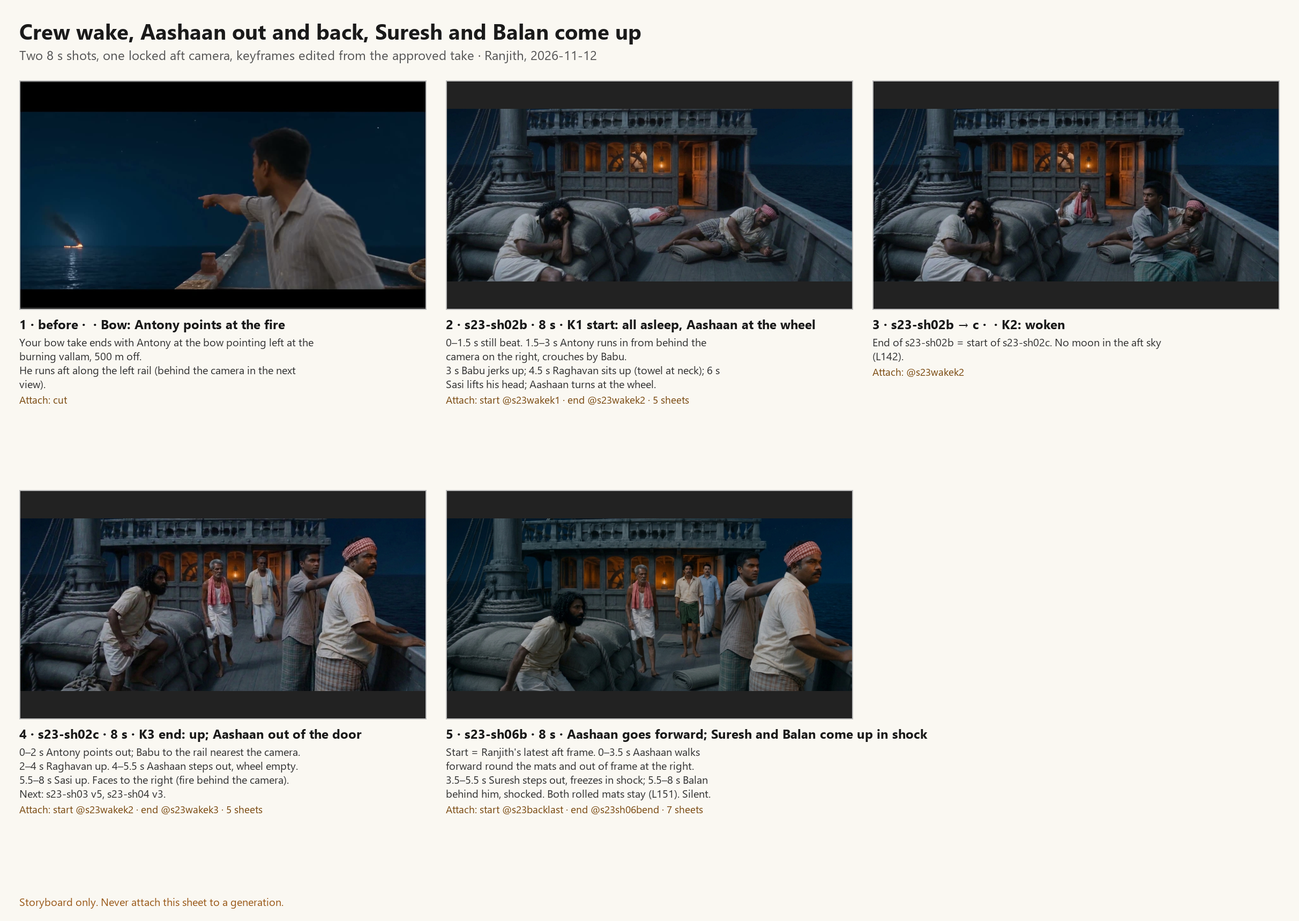
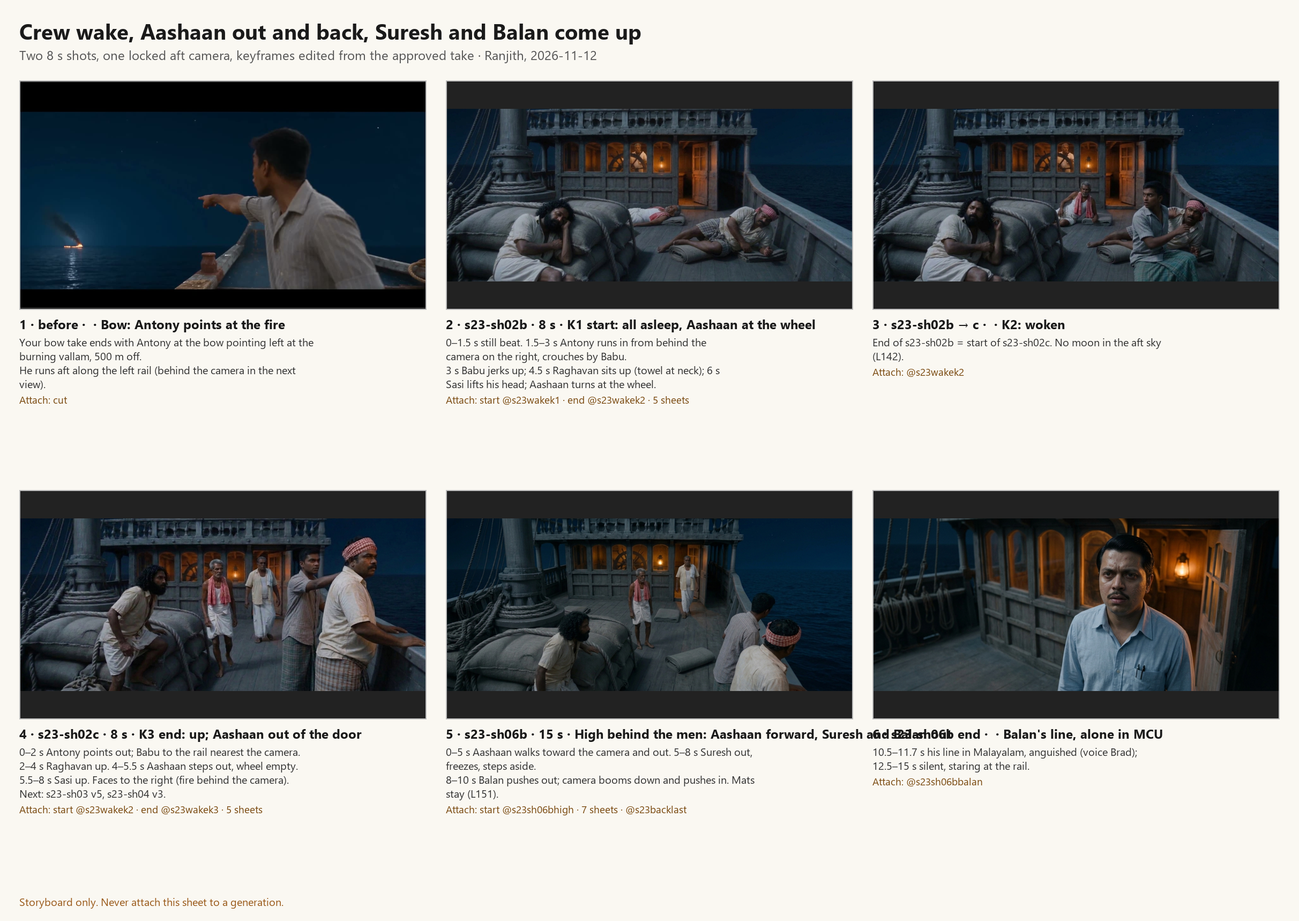
Ranjith: shot: s23-sh06b v9 (15 s, high from behind; Balan: എന്താ അവിടെ?)

Changed region(s): [[0.3403, 0.5244, 0.9901, 0.8946]]

diff --git a/scenes/showreel/s23-sh06b.md b/scenes/showreel/s23-sh06b.md
@@ -1,76 +1,75 @@
-# Shot s23-sh06b · SB031 Aashaan goes forward; Suresh and Balan come up in shock (8 s, silent) — v8
-Status: **ready, proposal** (v8, Ranjith 2026-11-12: continues from his latest aft take; v7 kept in `retired/s23-sh06b-v7.md`). QA 88.
-Storyboard: SB031 · source scene 23D · emotion "Resolve" (no tag, W6) · storyboard `storyboards/s23-wake-storyboard.png`
+# Shot s23-sh06b · SB031 Suresh and Balan come up; Balan: "എന്താ അവിടെ?" (15 s, one line) — v9
+Status: **ready, proposal** (v9, Ranjith 2026-11-12; v8 kept in `retired/s23-sh06b-v8.md`). QA 87.
+Storyboard: SB031 · source scene 23D · emotion "Resolve" (no tag, W6; delivery from the intent line, W13) · storyboard `storyboards/s23-wake-storyboard.png`
 Created by: Ranjith, 2026-11-10
-Camera position: the locked aft view of the latest take (main deck forward of the sacks, looking aft)
-References: start image = @s23backlast · reference (end) = @s23sh06bend · @antony20 · @babu · @raghavan · @sasi · @aashaan · @suresh · @balan (all full)
-Props in frame (L151): mast with rope coils, lashed sacks, TWO rolled sleeping mats (middle of the deck; lower middle), the open door, the lantern; all stay.
-Reference sweep (left out, and why): @urudeckc1platefullmoon: its mast stands elsewhere. @burningvallamnomoon: behind the camera.
-Follows: Ranjith's latest aft take (Aashaan walking forward from the door). Next: s23-sh06c (Suresh and Balan reach the rail), then s23-sh07 (Balan: don't go).
-Note: Aashaan is on deck from here; SB032 (s24-sh01) has him at the wheel, so a later shot has to send him back in.
+Camera (cinematographer, 2026-11-12: **Use this camera move**, Ranjith): high (about 3 m) from behind Antony and Babu at the rail, looking down the deck at the door; 8–10 s boom down and push in to Balan; MCU for his line ([camera-exp]: the move ends before the line).
+Voice: Balan = **Brad** (`voices/VOICES.md`).
+References: start image = @s23sh06bhigh · reference (10–15 s) = @s23sh06bbalan · @s23backlast (props) · @antony20 · @babu · @raghavan · @sasi · @aashaan · @suresh · @balan
+Props in frame (L151): mast with rope coils, lashed sacks, TWO rolled mats, the open door, the lantern; all stay (a hatch grate the image model added was removed).
+Follows: Ranjith's latest aft take (@s23backlast). Next: s23-sh06c, then s23-sh07 (Balan: don't go).
+Note: Aashaan is on deck from here; SB032 (s24-sh01) has him at the wheel.
 
 ## Prompt
 ```
 SCENE
-Full-moon night, 1998, the open sea off Kerala, on the main deck of our wooden cargo uru, looking aft at the carved deckhouse. One continuous shot, 8 seconds, carrying straight on from the start image. Aashaan walks forward from the deckhouse door, past the men at the right-hand rail, toward the bow. Behind him, startled awake by the running and the commotion on deck, Suresh and then Balan come up from below and step out of the door, and freeze in shock. Nobody speaks.
+Full-moon night, 1998, the open sea off Kerala, on the main deck of our wooden cargo uru. One continuous shot, 15 seconds, high from behind the men at the rail, looking down the deck at the carved deckhouse. Aashaan walks forward past the camera. Startled awake by the commotion, Suresh and then Balan come up from below and out of the deckhouse door, frozen in shock; the camera comes down to Balan, who calls out in Malayalam in anguish.
 
 MEMORY (the same night in every shot; nothing changes unless this block says so)
-Place: our uru, exactly as in the start image: the carved two-deck deckhouse aft with its balustraded roof rail, five arched windows glowing with one hanging lantern, the spoked wheel behind the windows (empty), the door on the right, open; ONE thick mast with rope coils at its foot at the LEFT; ONE stack of lashed burlap sacks in the left foreground; TWO rolled grey sleeping mats on the planks: one in the middle of the deck in front of the deckhouse, one in the lower middle of the frame near the camera; the right-hand rail (the boat's left side) running down the right of the frame with the sea beyond.
-Light: the full moon is behind the camera, never in the sky of this view: deep navy sky with faint stars; its silver-blue light falls on the deckhouse front, the planks and the men. Blue and readable, never black; warm light only from the lantern in the windows and the doorway.
-People: Antony: grey-beige short-sleeve shirt with thin vertical stripes, green-grey checked mundu, barefoot. Babu: heavy-set, moustache, red-and-white checked towel tied round his head, off-white shirt, checked lungi. Raghavan: about 60, thin, grey hair uncovered, white vest, white mundu, red-and-white checked towel round his NECK and down his chest. Sasi: long black curly hair, full beard, off-white shirt, white mundu. Aashaan: grey hair, grey moustache, cream shirt over a white vest, white towel on his LEFT shoulder, white mundu. Suresh: curly hair, moustache, cream shirt with sleeves rolled, green small-check mundu, a red thread on his RIGHT wrist. Balan: oiled black hair combed back, thin moustache, light-blue full-sleeve shirt with two pens in the left pocket, white mundu, black shoes. One of each, never a copy or a stranger; only Suresh wears a red thread.
-Fire: one fishing vallam burning 500 m away, ahead-left of the uru, behind the camera to the right; not in this view.
-NOW: Babu at the rail at the right edge and Antony beside him with his arm out, both staring out; Sasi crouched by the sacks; Raghavan standing in the middle of the deck; Aashaan just in front of the open door, the wheel empty; Suresh and Balan asleep below, about to come up.
+Place: our uru exactly as in the keyframes: the carved two-deck deckhouse aft, five arched windows glowing with one hanging lantern, the empty spoked wheel inside, the door open on the right; ONE thick mast with rope coils at its foot at the left; ONE stack of lashed burlap sacks at the left; TWO rolled grey sleeping mats on the planks, one in front of the deckhouse and one nearer the rail; the right-hand rail with the sea beyond.
+Light: the full moon is behind the camera, never in the sky: deep navy sky with faint stars; silver-blue moonlight on the deck and faces. Blue and readable, never black; warm light only from the lantern and the doorway.
+People: Antony: grey-beige short-sleeve shirt with thin vertical stripes, green-grey checked mundu. Babu: heavy-set, red-and-white checked towel tied round his head, checked lungi. Raghavan: thin, grey hair uncovered, white vest, white mundu, checked towel round his NECK. Sasi: long black curly hair, full beard, off-white shirt. Aashaan: grey hair, grey moustache, cream shirt over a white vest, white towel on his LEFT shoulder. Suresh: curly hair, moustache, cream shirt with sleeves rolled, green small-check mundu, red thread on his RIGHT wrist. Balan: about 35, black hair oiled and combed back with a side parting, thin moustache, light-blue full-sleeve shirt with two pens in the left pocket, white mundu, black shoes; real unretouched skin, pores, his acne marks, sweat sheen, matte. One of each; only Suresh has a red thread.
+Fire: one vallam burning 500 m away, ahead-left of the uru; not in this view.
+NOW: Antony and Babu at the rail in the foreground, backs to us; Sasi crouched by the sacks; Raghavan standing mid-deck; Aashaan just in front of the open door; Suresh and Balan below, about to come up.
 
 ACTIVE REFERENCES
-@s23backlast (start image, 0.0s): the exact first frame: the deck, mast, sacks, both rolled mats, the deckhouse and the five men exactly as in this image. 100% matches the reference.
-@s23sh06bend (reference, 8.0s): how the shot ends: Aashaan has gone forward past the camera, out of this view; Suresh just outside the door and Balan behind him, both frozen in shock; everyone else and every prop as at the start. The keyframes are for the place, the positions and the poses; every face and costume comes from the character sheets.
+@s23sh06bhigh (start image, 0.0s): the exact first frame, from high behind Antony and Babu: the deck, mast, sacks, both mats and the men exactly as here. 100% matches the reference.
+@s23sh06bbalan (reference, 10.0s–15.0s): how the shot ends: Balan alone in MCU just outside the door, face up toward the rail. Keyframes give place, framing and poses; faces and costumes come from the sheets.
+@s23backlast (reference): the same deck seen at eye height, for every prop's place.
 @antony20, @babu, @raghavan, @sasi, @aashaan, @suresh, @balan (full): each exactly as in MEMORY. 100% matches the reference.
 
-FORMAT MODE
-One continuous shot; the camera does not cut on its own. The video runs the full 8 seconds.
-
-OPTICS
-WS, about 55°, exactly the framing of the start image; natural depth of field: every man, the mats and the deckhouse readable.
-
 CAMERA
-Locked off at standing eye height, exactly as in the start image; the camera rides with the boat, so the deck stays steady in the frame.
+0.0s–8.0s: high, about three metres up, behind Antony and Babu, steady, riding with the boat. 8.0s–10.0s: a slow boom down and push-in toward the door, past the mats, Antony and Babu leaving the frame. 10.0s–15.0s: settled at just above Balan's eye height in MCU, still.
 
 ACTION
 Each man moves at his own moment, never together.
-0.0s to 3.5s: Aashaan walks forward from the door across the deck, around the rolled mats, grave, along the right side behind Antony and Babu, and passes out of the frame at the right edge toward the bow. Babu and Antony stay at the rail, staring out; Raghavan and Sasi stay where they are, watching.
-3.5s to 5.5s: Behind him, Suresh climbs up from below and steps out of the door, half awake, then sees the men and freezes, eyes wide.
-5.5s to 8.0s: Balan comes up right behind Suresh and stops in the doorway, shocked, eyes wide, looking past Suresh toward the rail. Hold on the view of @s23sh06bend.
+0.0s–5.0s: Aashaan walks forward from the door toward the camera, around the mats, and passes out of the frame below right; Antony and Babu stay at the rail; Raghavan and Sasi stay where they are.
+5.0s–8.0s: Suresh climbs up and steps out of the door, half awake, sees the men and freezes, eyes wide; he steps aside to the left of the door.
+8.0s–10.0s: Balan pushes out of the doorway past him, shocked, and stops just outside, looking up toward the rail.
+10.0s–12.5s: Balan alone in the frame, head steady, face toward the camera, eyes just right of the lens, speaks his line.
+12.5s–15.0s: silence, mouth closed, he stares toward the rail, breathing hard.
 
-EXPRESSIONS
-Antony, Babu: tense, staring out. Raghavan, Sasi: fear. Aashaan: grave, eyes narrowed, as he passes. Suresh: shock, eyes wide, mouth closed. Balan: shock, eyes wide, mouth closed. Every mouth stays closed.
-
-PHYSICS
-The deck rises and falls gently; the lantern sways and the window glow moves; the door swings; mundus stir in the breeze. The rolled mats lie still.
-
-LIGHTING
-As in MEMORY: moonlight from behind the camera on the deckhouse front and the men; warm lantern glow from the windows and the doorway falling on Suresh and Balan as they step out. No moon and no glow in the sky.
+DIALOGUE RULES
+Dialogue rules: whenever a character speaks, frame them in a medium close-up with their face filling at least a third of the frame height. The speaking face is turned toward the camera, no more than 30 degrees from the lens, upright and not lying sideways. Only one person speaks in the shot; everyone else keeps their mouth closed. The speaker's head stays steady during the line; head turns and gestures happen only in pauses between lines. The mouth is always fully visible, with nothing in front of the face, and the face is lit with soft, even frontal light. Natural, clearly articulated mouth movements matching the dialogue.
+While a line is spoken, the speaker is the only person in the frame.
 
 AUDIO
-Sound effects only — natural on-location sound, the soundtrack carries no music. No music at all: no score, no background music, no song, no humming, and no cinematic sound design: no riser, no whoosh, no swell, no rumble, no transition sound. Ambient at a steady level that does not build. No spoken words and no voices; every mouth stays closed.
-0.0s–3.5s Aashaan's footsteps on the planks; 3.5s–8.0s feet on a wooden ladder below, the door knocking, quick startled breaths, the sea.
+Sound effects only — natural on-location sound, no music: no score, no song, no humming, no riser, whoosh or swell. Ambient at a steady level.
+Spoken language: Malayalam only, not English and not a translation. Balan says the exact Malayalam words in quotes below, in everyday Kollam coastal pronunciation, once, and nothing else. Lip-sync exact; Balan alone in frame. No other voice in the video.
+10.5s to 11.7s: Balan, Kollam coastal accent, anguished and breathless, voice cracking, a short pull on "എന്താ", stress on "അവിടെ", pitch rising and breaking at the end. About 1.2 seconds.
+"എന്താ അവിടെ?"
+Sound effects: 0.0s–5.0s Aashaan's footsteps; 5.0s–10.0s feet on a wooden ladder below, the door knocking, startled breaths; 12.5s–15.0s Balan's hard breathing, the sea.
 
 STYLE
-Photoreal 1998 Kerala period feature film. Shot on a Sony Venice 2 full-frame digital cinema camera: very wide dynamic range that holds the lantern-lit deckhouse and the moonlit deck in one frame; clean, low-noise shadows; soft, gradual highlight roll-off; accurate, natural colour with rich, true skin tones; gentle filmic contrast; fine, organic texture; no over-sharpening, no glossy or video look. Deep blue full-moon night with warm lanterns.
+Photoreal 1998 Kerala period feature film. Shot on a Sony Venice 2 full-frame digital cinema camera: very wide dynamic range; clean, low-noise shadows; soft, gradual highlight roll-off; accurate, natural colour with rich, true skin tones; gentle filmic contrast; fine, organic texture; no over-sharpening, no glossy or video look. Deep blue full-moon night with warm lanterns.
 
 POSITIVE LOCKS
-Same camera and framing as the start image. Every prop stays exactly where it lies in the start image: the mast, the sacks, BOTH rolled mats; nothing is added, removed or moved. Seven men, one of each; Aashaan leaves the frame at the right by 3.5s, so six at the end. Suresh first, then Balan, out of the one door after Aashaan has gone forward. Raghavan's towel round his neck; Babu's on his head; only Suresh has a red thread. No moon in the sky. Nobody speaks. Runs the full 8 seconds.
+One continuous shot. Every prop stays where it lies: mast, sacks, BOTH rolled mats; nothing added or removed. One of each man. Only Balan speaks, one line, in Malayalam, alone in frame; every other mouth closed. No moon in the sky. Runs the full 15 seconds.
+
+When @balan says "എന്താ അവിടെ?" let it be anguished and breathless, a man just woken into a nightmare, afraid of the answer
 ```
 
 ## Settings
-- Duration **8 s** (L71) · 21:9 · no dialogue · remove every other attachment first (L88). Attach folder: `attach/s23-sh06b/`.
-- Start image `@s23backlast` · reference `@s23sh06bend` · `@antony20` · `@babu` · `@raghavan` · `@sasi` · `@aashaan` · `@suresh` · `@balan` (9).
-- QA 88. Risks: the rolled mats moving (L151); Aashaan stopping in frame instead of passing out at the right; only Suresh with a red thread.
+- Duration **15 s** · 21:9 · dialogue Malayalam · voice Balan = **Brad** · no emotion tag (W6), intent line (W13). Line 10.5–11.7 s, silent tail 3.3 s (L70).
+- Start image `@s23sh06bhigh` · reference `@s23sh06bbalan` · `@s23backlast` · `@antony20` · `@babu` · `@raghavan` · `@sasi` · `@aashaan` · `@suresh` · `@balan` (10; if the platform takes 9, drop `@s23backlast`).
+- QA 87. Risks: the camera move and the line in one take; Suresh staying in frame during the line (L34); the mats moving (L151).
 
 ## Generation results
 
 
 
+
 ## History
+- v9 (2026-11-12): Ranjith: Balan comes out saying "എന്താ അവിടെ?" in agony; camera a bit from behind and high; 15 s. Camera move asked and chosen (cinematographer step). Keyframes: high start view behind Antony and Babu (hatch grate removed, L151) and Balan's MCU at the door. Line in MCU alone (lip-sync rule), so Suresh steps aside first.
 - v8 (2026-11-12): Ranjith: from his latest aft frame (Aashaan already walking forward): Suresh and Balan come out behind Aashaan once he has gone forward, both in shock at the noise; the rolled mats stay (L151). End keyframe edited from his frame; Aashaan leaves the frame at the right (forward in this aft view), so the end frame is logical without him (an attempt to keep him in frame came out oversized and dropped Balan).
 - v7 (2026-11-12): Ranjith: after his takes left Aashaan out on deck, this shot sends him back to the wheel while Suresh and Balan come up; same locked aft camera; end keyframe @s23sh06bend (two retries: framing drift, and Antony vanishing when the men were spaced out; the kept one has Antony partly behind Babu).
 - v6 (2026-11-12): Ranjith: full-moon redo (SB027–SB032) in the look of his reference video: moon placed by the night sheet (ahead-right of the bow, L142), blue readable light, the bow is @urubowplate (L143), plates swapped to the full-moon IDs. Action, positions, lines and timing unchanged (L114). A start image means the last frame of the NEW full-moon take of the shot before.

diff --git a/scenes/showreel/retired/s23-sh06b-v8.md b/scenes/showreel/retired/s23-sh06b-v8.md
@@ -1,0 +1,91 @@
+# Shot s23-sh06b · SB031 Aashaan goes forward; Suresh and Balan come up in shock (8 s, silent) — v8
+Status: **ready, proposal** (v8, Ranjith 2026-11-12: continues from his latest aft take; v7 kept in `retired/s23-sh06b-v7.md`). QA 88.
+Storyboard: SB031 · source scene 23D · emotion "Resolve" (no tag, W6) · storyboard `storyboards/s23-wake-storyboard.png`
+Created by: Ranjith, 2026-11-10
+Camera position: the locked aft view of the latest take (main deck forward of the sacks, looking aft)
+References: start image = @s23backlast · reference (end) = @s23sh06bend · @antony20 · @babu · @raghavan · @sasi · @aashaan · @suresh · @balan (all full)
+Props in frame (L151): mast with rope coils, lashed sacks, TWO rolled sleeping mats (middle of the deck; lower middle), the open door, the lantern; all stay.
+Reference sweep (left out, and why): @urudeckc1platefullmoon: its mast stands elsewhere. @burningvallamnomoon: behind the camera.
+Follows: Ranjith's latest aft take (Aashaan walking forward from the door). Next: s23-sh06c (Suresh and Balan reach the rail), then s23-sh07 (Balan: don't go).
+Note: Aashaan is on deck from here; SB032 (s24-sh01) has him at the wheel, so a later shot has to send him back in.
+
+## Prompt
+```
+SCENE
+Full-moon night, 1998, the open sea off Kerala, on the main deck of our wooden cargo uru, looking aft at the carved deckhouse. One continuous shot, 8 seconds, carrying straight on from the start image. Aashaan walks forward from the deckhouse door, past the men at the right-hand rail, toward the bow. Behind him, startled awake by the running and the commotion on deck, Suresh and then Balan come up from below and step out of the door, and freeze in shock. Nobody speaks.
+
+MEMORY (the same night in every shot; nothing changes unless this block says so)
+Place: our uru, exactly as in the start image: the carved two-deck deckhouse aft with its balustraded roof rail, five arched windows glowing with one hanging lantern, the spoked wheel behind the windows (empty), the door on the right, open; ONE thick mast with rope coils at its foot at the LEFT; ONE stack of lashed burlap sacks in the left foreground; TWO rolled grey sleeping mats on the planks: one in the middle of the deck in front of the deckhouse, one in the lower middle of the frame near the camera; the right-hand rail (the boat's left side) running down the right of the frame with the sea beyond.
+Light: the full moon is behind the camera, never in the sky of this view: deep navy sky with faint stars; its silver-blue light falls on the deckhouse front, the planks and the men. Blue and readable, never black; warm light only from the lantern in the windows and the doorway.
+People: Antony: grey-beige short-sleeve shirt with thin vertical stripes, green-grey checked mundu, barefoot. Babu: heavy-set, moustache, red-and-white checked towel tied round his head, off-white shirt, checked lungi. Raghavan: about 60, thin, grey hair uncovered, white vest, white mundu, red-and-white checked towel round his NECK and down his chest. Sasi: long black curly hair, full beard, off-white shirt, white mundu. Aashaan: grey hair, grey moustache, cream shirt over a white vest, white towel on his LEFT shoulder, white mundu. Suresh: curly hair, moustache, cream shirt with sleeves rolled, green small-check mundu, a red thread on his RIGHT wrist. Balan: oiled black hair combed back, thin moustache, light-blue full-sleeve shirt with two pens in the left pocket, white mundu, black shoes. One of each, never a copy or a stranger; only Suresh wears a red thread.
+Fire: one fishing vallam burning 500 m away, ahead-left of the uru, behind the camera to the right; not in this view.
+NOW: Babu at the rail at the right edge and Antony beside him with his arm out, both staring out; Sasi crouched by the sacks; Raghavan standing in the middle of the deck; Aashaan just in front of the open door, the wheel empty; Suresh and Balan asleep below, about to come up.
+
+ACTIVE REFERENCES
+@s23backlast (start image, 0.0s): the exact first frame: the deck, mast, sacks, both rolled mats, the deckhouse and the five men exactly as in this image. 100% matches the reference.
+@s23sh06bend (reference, 8.0s): how the shot ends: Aashaan has gone forward past the camera, out of this view; Suresh just outside the door and Balan behind him, both frozen in shock; everyone else and every prop as at the start. The keyframes are for the place, the positions and the poses; every face and costume comes from the character sheets.
+@antony20, @babu, @raghavan, @sasi, @aashaan, @suresh, @balan (full): each exactly as in MEMORY. 100% matches the reference.
+
+FORMAT MODE
+One continuous shot; the camera does not cut on its own. The video runs the full 8 seconds.
+
+OPTICS
+WS, about 55°, exactly the framing of the start image; natural depth of field: every man, the mats and the deckhouse readable.
+
+CAMERA
+Locked off at standing eye height, exactly as in the start image; the camera rides with the boat, so the deck stays steady in the frame.
+
+ACTION
+Each man moves at his own moment, never together.
+0.0s to 3.5s: Aashaan walks forward from the door across the deck, around the rolled mats, grave, along the right side behind Antony and Babu, and passes out of the frame at the right edge toward the bow. Babu and Antony stay at the rail, staring out; Raghavan and Sasi stay where they are, watching.
+3.5s to 5.5s: Behind him, Suresh climbs up from below and steps out of the door, half awake, then sees the men and freezes, eyes wide.
+5.5s to 8.0s: Balan comes up right behind Suresh and stops in the doorway, shocked, eyes wide, looking past Suresh toward the rail. Hold on the view of @s23sh06bend.
+
+EXPRESSIONS
+Antony, Babu: tense, staring out. Raghavan, Sasi: fear. Aashaan: grave, eyes narrowed, as he passes. Suresh: shock, eyes wide, mouth closed. Balan: shock, eyes wide, mouth closed. Every mouth stays closed.
+
+PHYSICS
+The deck rises and falls gently; the lantern sways and the window glow moves; the door swings; mundus stir in the breeze. The rolled mats lie still.
+
+LIGHTING
+As in MEMORY: moonlight from behind the camera on the deckhouse front and the men; warm lantern glow from the windows and the doorway falling on Suresh and Balan as they step out. No moon and no glow in the sky.
+
+AUDIO
+Sound effects only — natural on-location sound, the soundtrack carries no music. No music at all: no score, no background music, no song, no humming, and no cinematic sound design: no riser, no whoosh, no swell, no rumble, no transition sound. Ambient at a steady level that does not build. No spoken words and no voices; every mouth stays closed.
+0.0s–3.5s Aashaan's footsteps on the planks; 3.5s–8.0s feet on a wooden ladder below, the door knocking, quick startled breaths, the sea.
+
+STYLE
+Photoreal 1998 Kerala period feature film. Shot on a Sony Venice 2 full-frame digital cinema camera: very wide dynamic range that holds the lantern-lit deckhouse and the moonlit deck in one frame; clean, low-noise shadows; soft, gradual highlight roll-off; accurate, natural colour with rich, true skin tones; gentle filmic contrast; fine, organic texture; no over-sharpening, no glossy or video look. Deep blue full-moon night with warm lanterns.
+
+POSITIVE LOCKS
+Same camera and framing as the start image. Every prop stays exactly where it lies in the start image: the mast, the sacks, BOTH rolled mats; nothing is added, removed or moved. Seven men, one of each; Aashaan leaves the frame at the right by 3.5s, so six at the end. Suresh first, then Balan, out of the one door after Aashaan has gone forward. Raghavan's towel round his neck; Babu's on his head; only Suresh has a red thread. No moon in the sky. Nobody speaks. Runs the full 8 seconds.
+```
+
+## Settings
+- Duration **8 s** (L71) · 21:9 · no dialogue · remove every other attachment first (L88). Attach folder: `attach/s23-sh06b/`.
+- Start image `@s23backlast` · reference `@s23sh06bend` · `@antony20` · `@babu` · `@raghavan` · `@sasi` · `@aashaan` · `@suresh` · `@balan` (9).
+- QA 88. Risks: the rolled mats moving (L151); Aashaan stopping in frame instead of passing out at the right; only Suresh with a red thread.
+
+## Generation results
+
+
+
+## History
+- v8 (2026-11-12): Ranjith: from his latest aft frame (Aashaan already walking forward): Suresh and Balan come out behind Aashaan once he has gone forward, both in shock at the noise; the rolled mats stay (L151). End keyframe edited from his frame; Aashaan leaves the frame at the right (forward in this aft view), so the end frame is logical without him (an attempt to keep him in frame came out oversized and dropped Balan).
+- v7 (2026-11-12): Ranjith: after his takes left Aashaan out on deck, this shot sends him back to the wheel while Suresh and Balan come up; same locked aft camera; end keyframe @s23sh06bend (two retries: framing drift, and Antony vanishing when the men were spaced out; the kept one has Antony partly behind Babu).
+- v6 (2026-11-12): Ranjith: full-moon redo (SB027–SB032) in the look of his reference video: moon placed by the night sheet (ahead-right of the bow, L142), blue readable light, the bow is @urubowplate (L143), plates swapped to the full-moon IDs. Action, positions, lines and timing unchanged (L114). A start image means the last frame of the NEW full-moon take of the shot before.
+- v5 (2026-11-10): Ranjith: in the s23-sh06 take nobody is at the wheel, so Aashaan is out of view inside at the side of the wheelhouse; @aashaan removed, the wheel behind the windows stays empty.
+- v4 (2026-11-10): EXPRESSIONS block added: every person in frame has his own facial expression, beat by beat (L123).
+- v3 (2026-11-10): split into two shots (Ranjith) to stay under six people per frame (L98): this one is only the doorway (pan left), s23-sh06c is the arrival at the rail. v2: `retired/s23-sh06b-v2.md`.
+- v2 (2026-11-10): L122: starts from the s23-sh06 last frame on the same camera and pulls back to show the doorway; Suresh then Balan come out of it and join the men (Balan ends beside Antony, ready for s23-sh07). v1 (separate tighter angle): `retired/s23-sh06b-v1.md`.
+- v1 (2026-11-10): new shot (Ranjith): Suresh and Balan were asleep below; they come up the ladder inside the deckhouse and out of its door (Ranjith's choice), staggered (L113), and hurry to the rail. Closes part of story gap G1 (Balan witnesses the rescue).
+
+## Continuity check (from the previous frames)
+| Element | Previous (s23-sh05 v4 frame, s23-sh06 v7) | This shot |
+|---|---|---|
+| Camera | c1-aft, pushed in on the men | same camera, pulls back to the wide |
+| Men at the rail | Sasi, Babu, Raghavan, Antony (left to right) | same places; Suresh behind Sasi, Balan beside Antony by the end |
+| Doorway | glowing, empty, just left of Sasi, ~4 m behind the men | Suresh then Balan come out of it |
+| Aashaan | not at the wheel in the s23-sh06 take (wheel empty behind the windows) | out of view inside, at the side of the wheelhouse |
+| Light | one lantern inside, moon high left, deep shadows | same |
+| Fire | beyond the rail, not in view | same |

diff --git a/scenes/showreel/attach/s23-sh06b/README.md b/scenes/showreel/attach/s23-sh06b/README.md
@@ -1,3 +1,3 @@
-# s23-sh06b v8 · what to attach (8 s, 21:9, silent)
+# s23-sh06b v9 · what to attach (15 s, 21:9, Malayalam, one line: Balan, voice Brad)
 
-01 = start image, 02 = end reference (place and poses only), 03–09 = character sheets (full). Upload each under its platform ID (the file name after the number). Remove every other attachment first (L88). Prompt: `scenes/showreel/s23-sh06b.md`.
+01 = start image, 02 = reference for 10–15 s (Balan MCU), 03–09 = character sheets (full), 10 = @s23backlast (props reference; drop it if the platform takes only 9). Upload each under its platform ID (the file name after the number). Remove every other attachment first (L88). Prompt: `scenes/showreel/s23-sh06b.md`.
